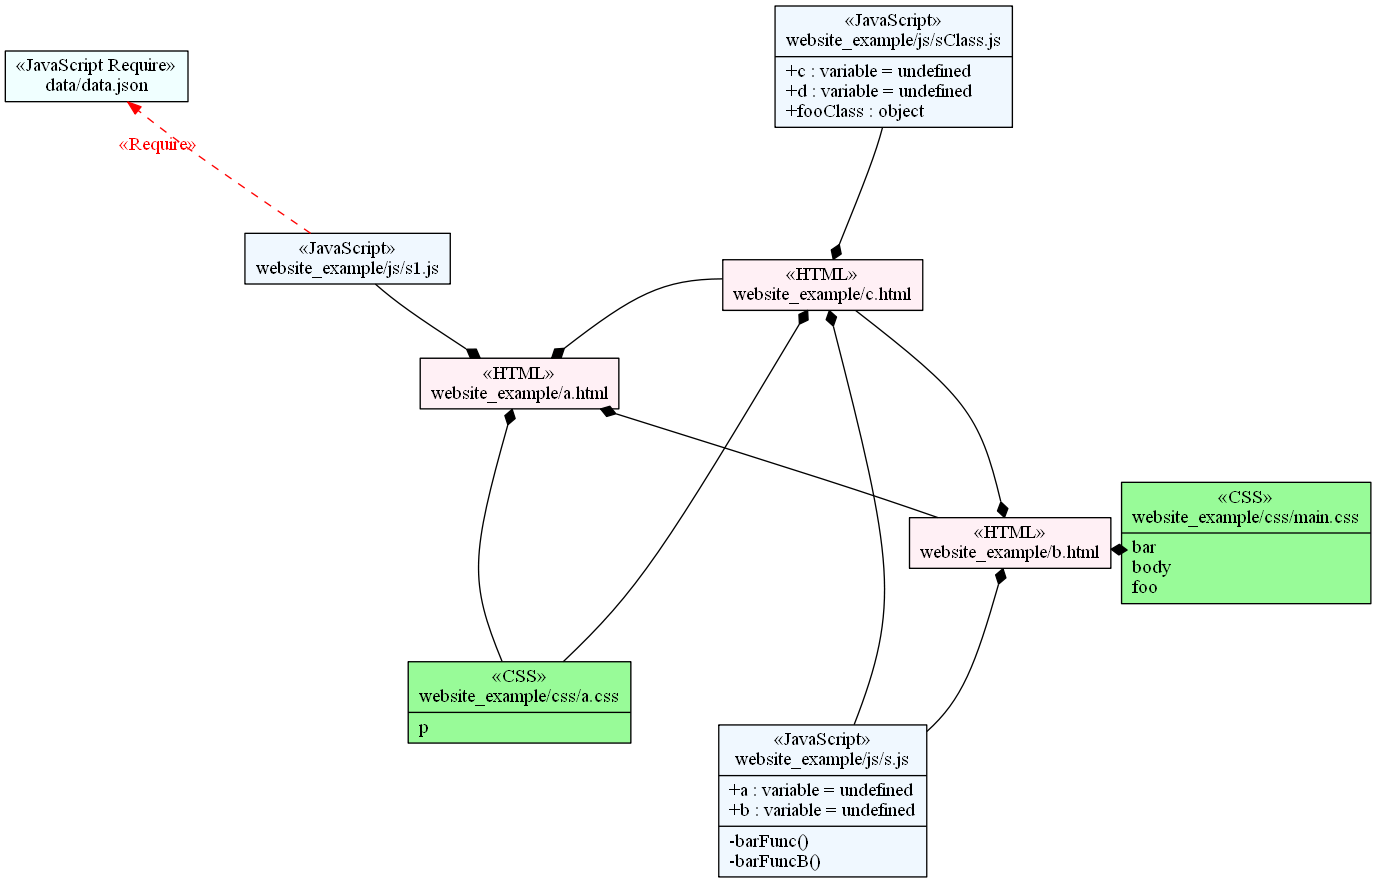
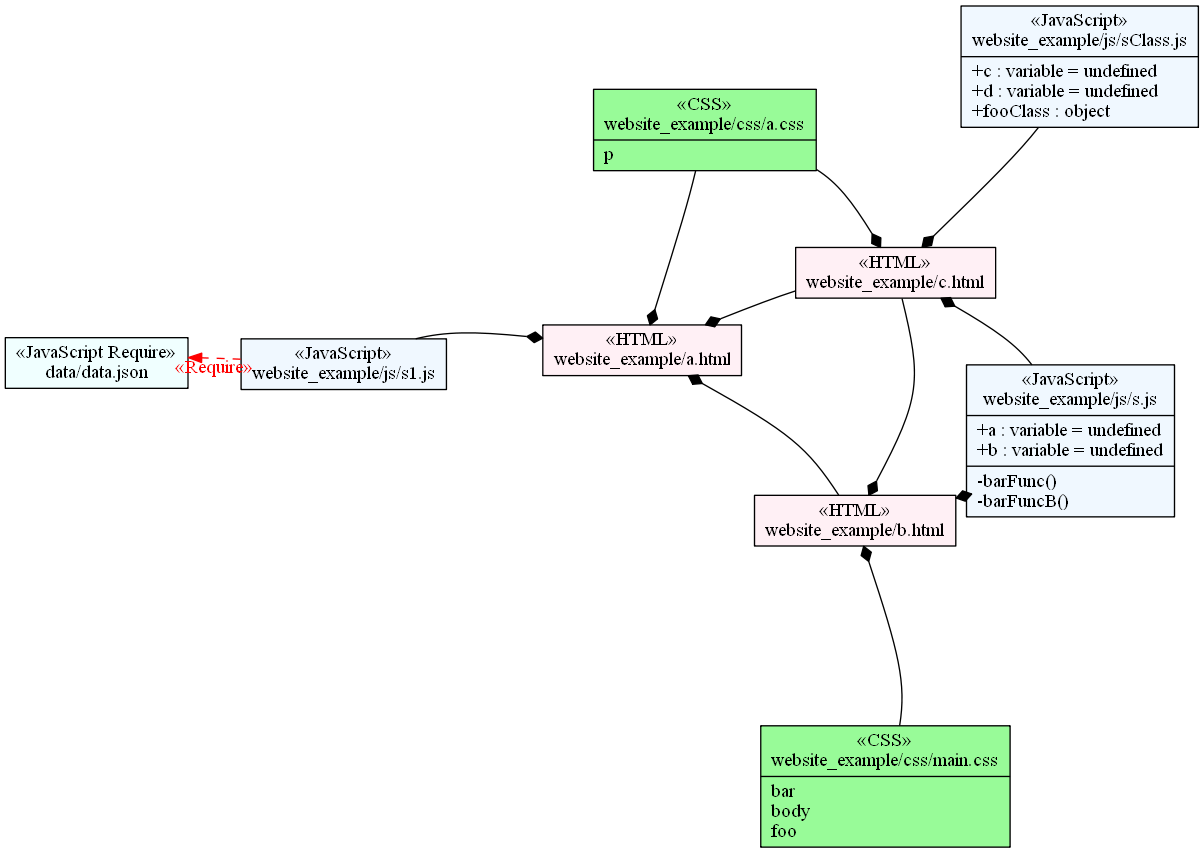
auto-commit

diff --git a/lib/deps/graphvizClass.js b/lib/deps/graphvizClass.js
@@ -103,7 +103,7 @@ var graphvizClass = module.exports = {
 		    ], function done(err, results) {
 		    	graphvizClass.errorHandler(err);
 
-				g.use = "circo";
+				g.use = "sfdp";
 				g.set("overlap",false);
 				g.set("splines","curved");
 				g.set("rankdir","TB");
